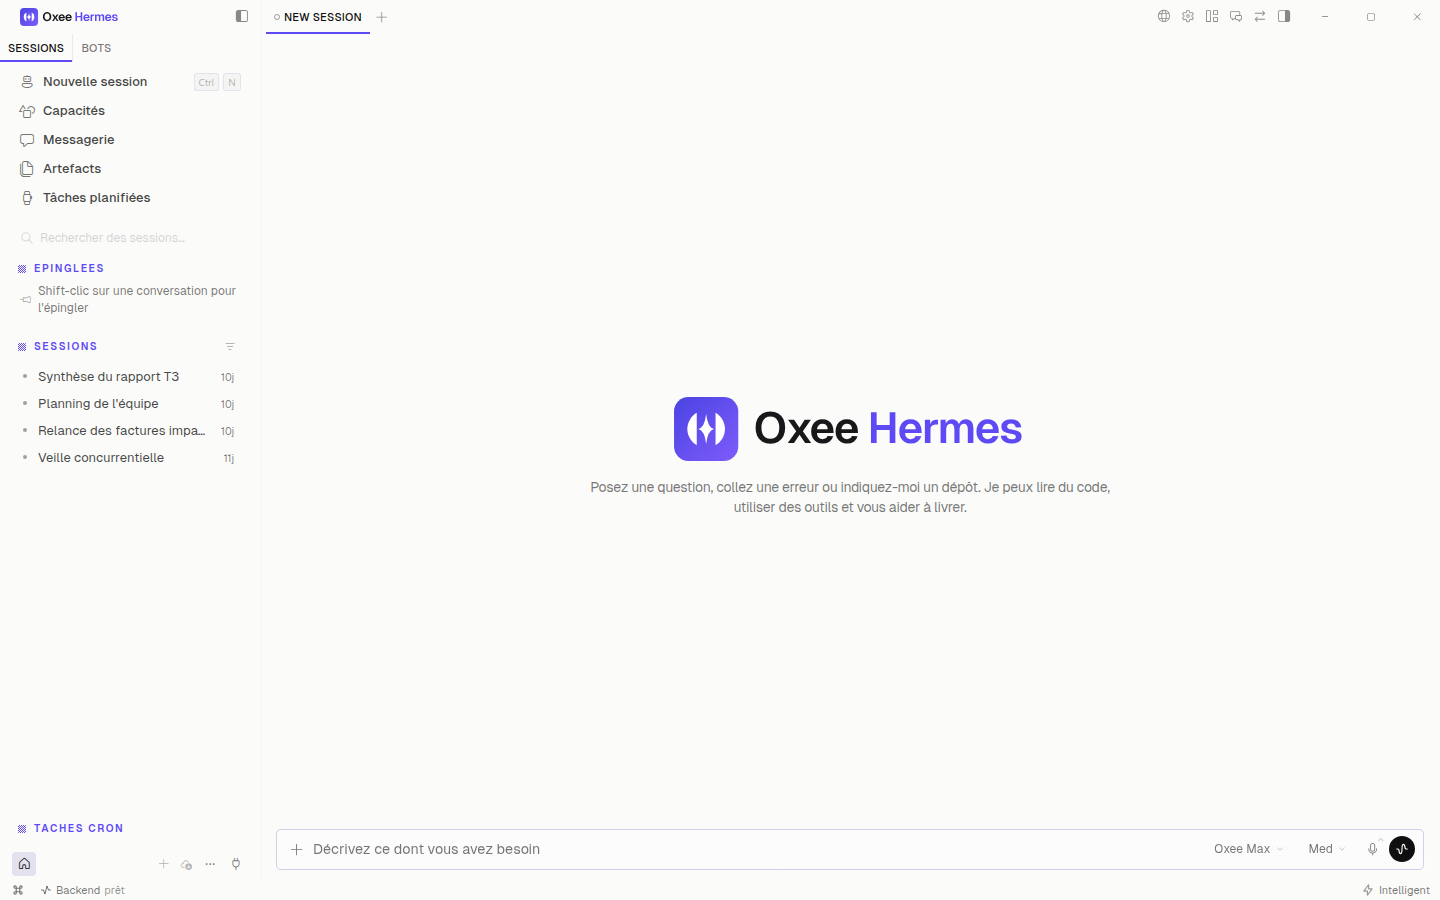
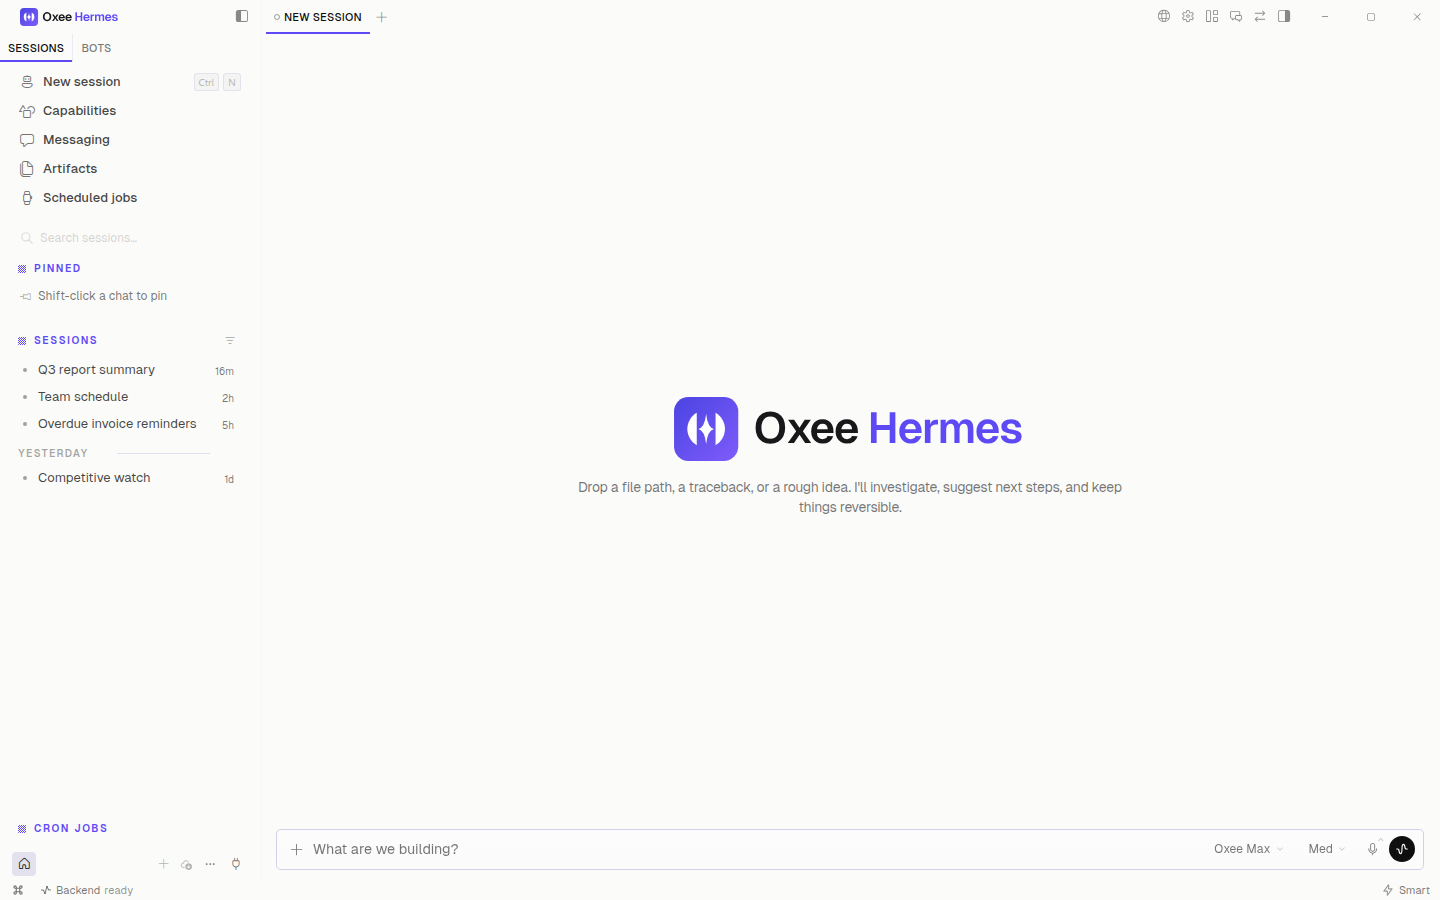
Oxeegen: README screenshots in English

diff --git a/oxeegen/README.md b/oxeegen/README.md
@@ -15,7 +15,7 @@ petit et régénérable par rapport à l'upstream, pour que les mises à jour re
   GitHub de l'upstream. Sa branche `main` est la branche de travail locale `oxeegen`
   (`git push origin oxeegen:main`). Issues et Actions désactivées.
 - Page d'accueil GitHub : `.github/README.md` (prioritaire sur le `README.md` upstream, laissé intact),
-  captures dans `oxeegen/assets/screenshots/` (régénérées depuis l'app de dev sur un home de démo).
+  captures dans `oxeegen/assets/screenshots/`, en anglais (interface et contenu de démo anglais, comme le README).
   Politique de sécurité : `.github/SECURITY.md`. `CONTRIBUTING*.md` retirés (pas d'onglet
   Contributing : le fork ne prend pas de contributions extérieures).
 - Remote `upstream` en lecture seule (le push est désactivé). Le `main` local suit l'upstream.
